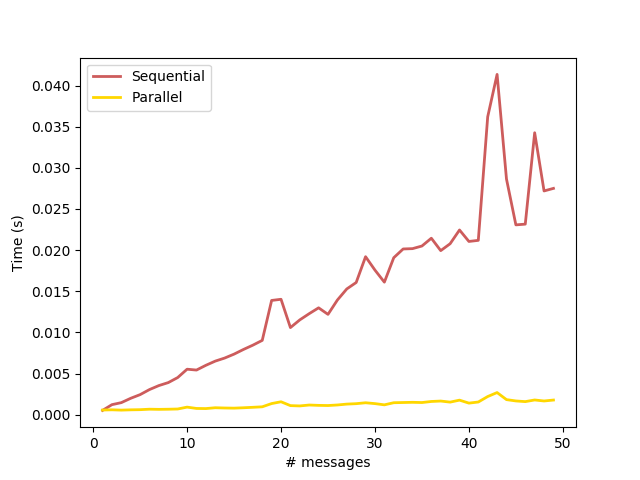
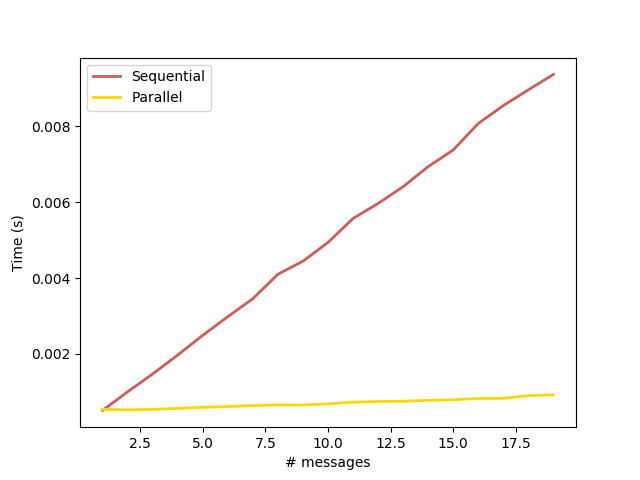
rebuilt docs

diff --git a/auto_examples/plot_parallel_decoding.html b/auto_examples/plot_parallel_decoding.html
@@ -152,8 +152,8 @@ and d_c ones per column</p>
 <p>Now we simulate transmission for different levels of noise and
 compute the percentage of errors using the bit-error-rate score
 To parallelize coding and decoding, simply stack the messages as columns:</p>
-<div class="highlight-default notranslate"><div class="highlight"><pre><span></span><span class="n">n_messages</span> <span class="o">=</span> <a href="https://docs.scipy.org/doc/numpy/reference/generated/numpy.arange.html#numpy.arange" title="View documentation for numpy.arange"><span class="n">np</span><span class="o">.</span><span class="n">arange</span></a><span class="p">(</span><span class="mi">1</span><span class="p">,</span> <span class="mi">50</span><span class="p">)</span>
-<span class="n">n_runs</span> <span class="o">=</span> <span class="mi">10</span>
+<div class="highlight-default notranslate"><div class="highlight"><pre><span></span><span class="n">n_messages</span> <span class="o">=</span> <a href="https://docs.scipy.org/doc/numpy/reference/generated/numpy.arange.html#numpy.arange" title="View documentation for numpy.arange"><span class="n">np</span><span class="o">.</span><span class="n">arange</span></a><span class="p">(</span><span class="mi">1</span><span class="p">,</span> <span class="mi">20</span><span class="p">)</span>
+<span class="n">n_runs</span> <span class="o">=</span> <span class="mi">50</span>
 <span class="n">snr</span> <span class="o">=</span> <span class="mi">10</span>
 <span class="n">times_parallel</span> <span class="o">=</span> <span class="p">[]</span>
 <span class="n">times_sequential</span> <span class="o">=</span> <span class="p">[]</span>
@@ -193,8 +193,8 @@ To parallelize coding and decoding, simply stack the messages as columns:</p>
   plt.show()
 </pre></div>
 </div>
-<p class="sphx-glr-timing"><strong>Total running time of the script:</strong> ( 0 minutes  8.209 seconds)</p>
-<p><strong>Estimated memory usage:</strong>  21 MB</p>
+<p class="sphx-glr-timing"><strong>Total running time of the script:</strong> ( 0 minutes  5.776 seconds)</p>
+<p><strong>Estimated memory usage:</strong>  14 MB</p>
 <div class="sphx-glr-footer class sphx-glr-footer-example docutils container" id="sphx-glr-download-auto-examples-plot-parallel-decoding-py">
 <div class="sphx-glr-download docutils container">
 <p><a class="reference download internal" download="" href="../_downloads/02ea05517c11a5489d3f37be7228b02e/plot_parallel_decoding.py"><code class="xref download docutils literal notranslate"><span class="pre">Download</span> <span class="pre">Python</span> <span class="pre">source</span> <span class="pre">code:</span> <span class="pre">plot_parallel_decoding.py</span></code></a></p>

diff --git a/auto_examples/sg_execution_times.html b/auto_examples/sg_execution_times.html
@@ -113,11 +113,11 @@
       
   <div class="section" id="computation-times">
 <span id="sphx-glr-auto-examples-sg-execution-times"></span><h1>Computation times<a class="headerlink" href="#computation-times" title="Permalink to this headline">¶</a></h1>
-<p><strong>00:15.663</strong> total execution time for <strong>auto_examples</strong> files:</p>
+<p><strong>00:05.776</strong> total execution time for <strong>auto_examples</strong> files:</p>
 <ul class="simple">
-<li><p><strong>00:08.209</strong>: <a class="reference internal" href="plot_parallel_decoding.html#sphx-glr-auto-examples-plot-parallel-decoding-py"><span class="std std-ref">Parallelization of Log-BP decoding</span></a> (<code class="docutils literal notranslate"><span class="pre">plot_parallel_decoding.py</span></code>)</p></li>
-<li><p><strong>00:04.995</strong>: <a class="reference internal" href="plot_image_transmission.html#sphx-glr-auto-examples-plot-image-transmission-py"><span class="std std-ref">Coding - Decoding simulation of an image</span></a> (<code class="docutils literal notranslate"><span class="pre">plot_image_transmission.py</span></code>)</p></li>
-<li><p><strong>00:02.458</strong>: <a class="reference internal" href="plot_coding_decoding_simulation.html#sphx-glr-auto-examples-plot-coding-decoding-simulation-py"><span class="std std-ref">Coding - Decoding simulation of a random message</span></a> (<code class="docutils literal notranslate"><span class="pre">plot_coding_decoding_simulation.py</span></code>)</p></li>
+<li><p><strong>00:05.776</strong>: <a class="reference internal" href="plot_parallel_decoding.html#sphx-glr-auto-examples-plot-parallel-decoding-py"><span class="std std-ref">Parallelization of Log-BP decoding</span></a> (<code class="docutils literal notranslate"><span class="pre">plot_parallel_decoding.py</span></code>)</p></li>
+<li><p><strong>00:00.000</strong>: <a class="reference internal" href="plot_coding_decoding_simulation.html#sphx-glr-auto-examples-plot-coding-decoding-simulation-py"><span class="std std-ref">Coding - Decoding simulation of a random message</span></a> (<code class="docutils literal notranslate"><span class="pre">plot_coding_decoding_simulation.py</span></code>)</p></li>
+<li><p><strong>00:00.000</strong>: <a class="reference internal" href="plot_image_transmission.html#sphx-glr-auto-examples-plot-image-transmission-py"><span class="std std-ref">Coding - Decoding simulation of an image</span></a> (<code class="docutils literal notranslate"><span class="pre">plot_image_transmission.py</span></code>)</p></li>
 </ul>
 </div>
 

diff --git a/_downloads/02ea05517c11a5489d3f37be7228b02e/plot_parallel_decoding.py b/_downloads/02ea05517c11a5489d3f37be7228b02e/plot_parallel_decoding.py
@@ -35,8 +35,8 @@ print("Number of coded bits:", k)
 # compute the percentage of errors using the bit-error-rate score
 # To parallelize coding and decoding, simply stack the messages as columns:
 
-n_messages = np.arange(1, 50)
-n_runs = 10
+n_messages = np.arange(1, 20)
+n_runs = 50
 snr = 10
 times_parallel = []
 times_sequential = []
